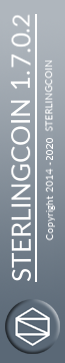
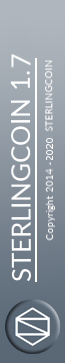
v1.7.1

Changed region(s): [[0.1538, 0.0303, 0.4923, 0.1515], [0.5231, 0.0303, 0.5846, 0.1818]]

diff --git a/src/clientversion.h b/src/clientversion.h
@@ -8,8 +8,8 @@
 // These need to be macros, as version.cpp's and bitcoin-qt.rc's voodoo requires it
 #define CLIENT_VERSION_MAJOR       1
 #define CLIENT_VERSION_MINOR       7
-#define CLIENT_VERSION_REVISION    0
-#define CLIENT_VERSION_BUILD       4
+#define CLIENT_VERSION_REVISION    1
+#define CLIENT_VERSION_BUILD       0
 
 // Converts the parameter X to a string after macro replacement on X has been performed.
 // Don't merge these into one macro!

diff --git a/src/qt/bitcoingui.cpp b/src/qt/bitcoingui.cpp
@@ -82,7 +82,7 @@ BitcoinGUI::BitcoinGUI(QWidget *parent):
 {
     this->setFixedSize(860,640);
     //resize(860, 640);
-    setWindowTitle("Sterlingcoin v1.7");
+    setWindowTitle("Sterlingcoin v1.7.1");
 #ifndef Q_OS_MAC
     qApp->setWindowIcon(QIcon(":icons/sterlingcoin"));
     setWindowIcon(QIcon(":icons/sterlingcoin"));

diff --git a/README.md b/README.md
@@ -1,6 +1,6 @@
 ![Alt text](src/qt/res/images/splash.png)
 
-Sterlingcoin Version 1.7.0.4 WIP (perhaps, per more testing, stable)
+Sterlingcoin Version 1.7.1.0
 
 Sterlingcoin integration/staging tree
 ================================
